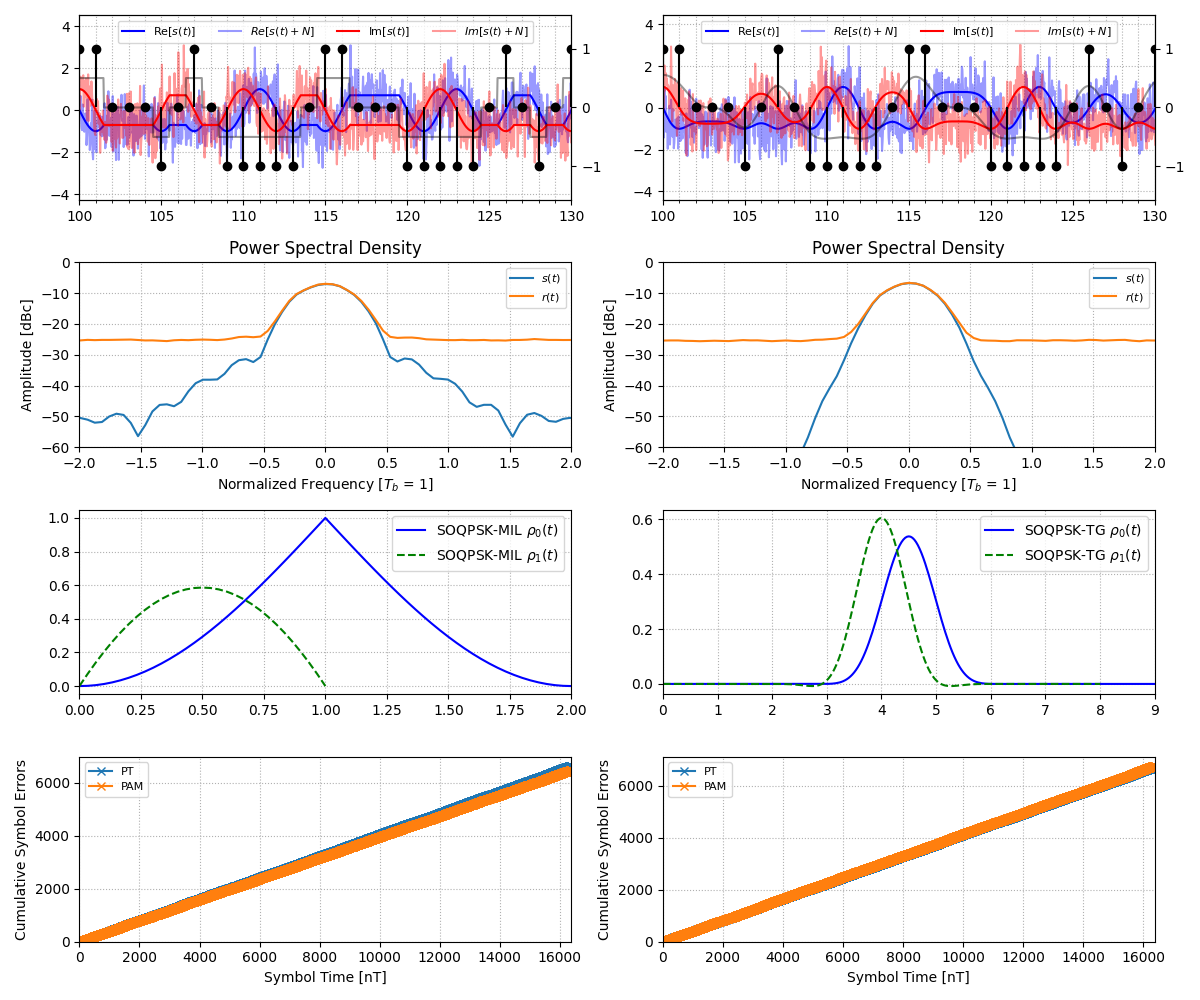
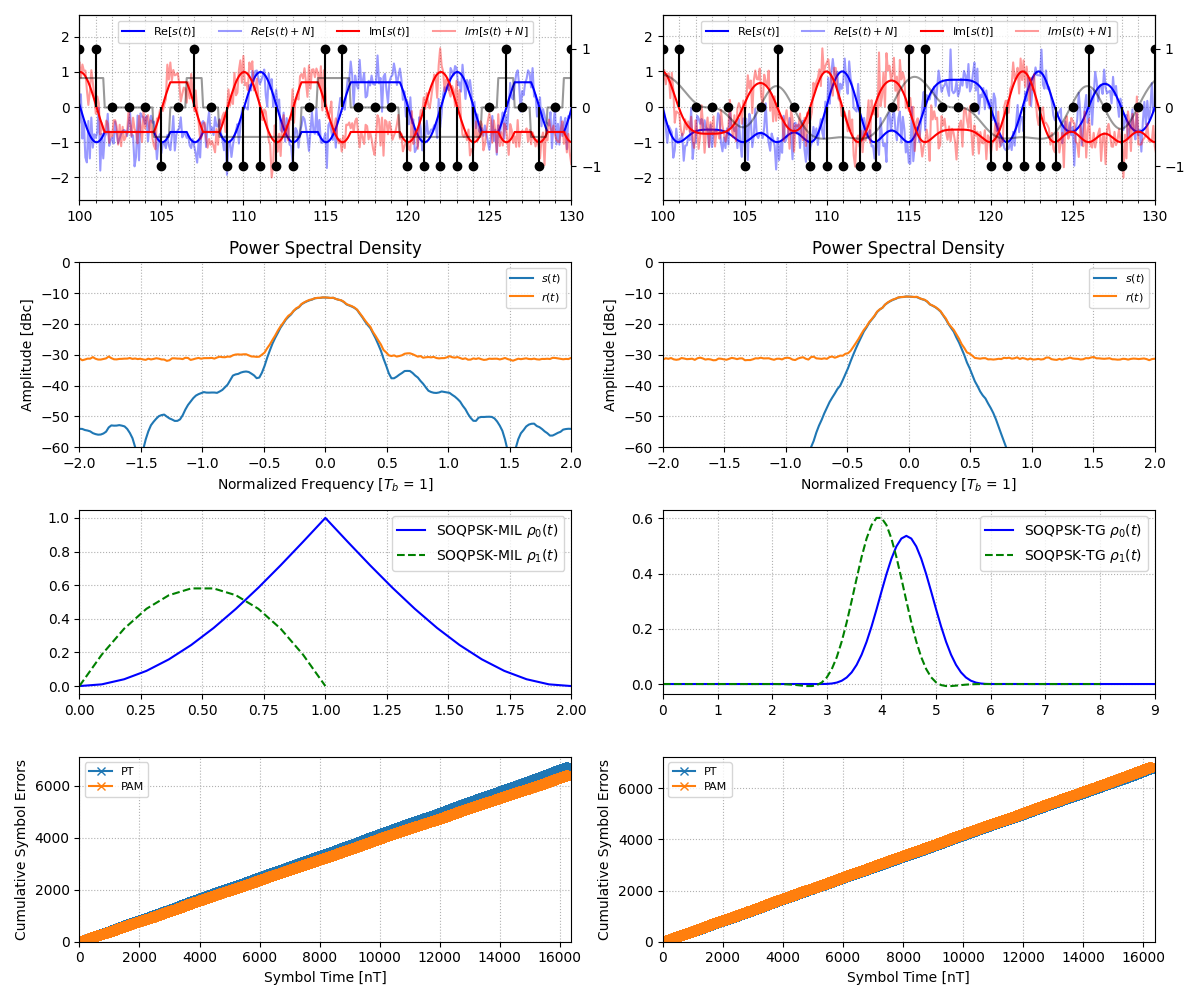
Remove black, isort lint option, work on pam decomp.

diff --git a/examples/soqpsk_detection.py b/examples/soqpsk_detection.py
@@ -19,7 +19,9 @@ from waveforms.cpm.trellis.model import (
     SOQPSKTrellis4x2,
 )
 from waveforms.glfsr import PNSequence
+from waveforms.noise import generate_complex_awgn
 from waveforms.viterbi.algorithm import SOQPSKTrellisDetector
+
 
 # Set seeds so iterations on implementation can be compared better
 rng = np.random.Generator(np.random.PCG64(seed=1))
@@ -36,10 +38,10 @@ _logger = logging.getLogger(__name__)
 if __name__ == "__main__":
     logging.basicConfig(level=logging.INFO)
     # Constants
-    sps = 30
+    sps = 10
     fft_size = 2**9
     pulse_pad = 0.5
-    sigma = np.sqrt(2) / 2
+    sigma = np.sqrt(2) / 4
     P = 4
 
     # Bits of information to transmit
@@ -82,18 +84,7 @@ if __name__ == "__main__":
             pulse_filter=pulse_filter,
             sps=sps,
         )
-        real_noise = rng.normal(0, sigma, modulated_signal.size)
-        imag_noise = rng.normal(0, sigma, modulated_signal.size)
-        noise = real_noise + 1j * imag_noise
-        # noise = (
-        #     rng.normal(
-        #         loc=0,
-        #         scale=sigma,
-        #         size=(modulated_signal.size, 2),
-        #     )
-        #     .view(np.complex128)
-        #     .flatten()
-        # )
+        noise = generate_complex_awgn(sigma, modulated_signal.size, rng)
         modulated_signal[:] *= np.exp(-j * np.pi / 4)
         freq_pulses = np.angle(modulated_signal[1:] * modulated_signal.conj()[:-1]) * sps / np.pi
 
@@ -157,7 +148,8 @@ if __name__ == "__main__":
         L = int(pulse_filter.size / sps)
         truncation = 1
         truncated_freq_pulse = pulse_filter[
-            int((L - truncation) * sps / 2) : int((L + truncation) * sps / 2) + 1
+            int((L - truncation) * sps / 2) :
+            int((L + truncation) * sps / 2) + 1
         ]
         truncated_freq_pulse = normalize_cpm_filter(sps=sps, g=truncated_freq_pulse)
         truncated_phase_pulse = np.cumsum(truncated_freq_pulse) / sps
@@ -169,7 +161,7 @@ if __name__ == "__main__":
         )
         mf_outputs_pt[1, :] = np.convolve(
             received_signal,
-            np.exp(-j * 2 * np.pi * mod_index * 0 * truncated_phase_pulse),
+            np.exp(-j * 2 * np.pi * mod_index * +0 * truncated_phase_pulse),
             mode="same",
         )
         mf_outputs_pt[2, :] = np.convolve(
@@ -180,6 +172,18 @@ if __name__ == "__main__":
 
         # PAM De-composition rho pulses/matched filters
         rho = rho_pulses(pulse_filter, mod_index, sps, k_max=2)
+
+        # if label == "MIL":
+        #     rho = [
+        #         np.concatenate([r[:int(r.size//2)], r[int(r.size//2)+1:]])
+        #         for r in rho
+        #     ]
+        # else:
+        #     rho = [
+        #         r[:-1]
+        #         for r in rho
+        #     ]
+
         d_max = max([rho_k.size for rho_k in rho])
 
         # Match filter outputs
@@ -229,9 +233,10 @@ if __name__ == "__main__":
             (error_idx,) = np.where(iter_va_output_symbols[:min_size] - aligned_symbols[:min_size])
             log_msg = (
                 f"SOQPSK-{label} {detector_type}: "
-                f"EbN0 (meas) = {ebn0:.2f} dB, "
-                f"EbN0 (calc) = {ebn0_calc:.2f} dB, "
+                f"Eb/N0 (meas) = {ebn0:.2f} dB, "
+                f"Eb/N0 (calc) = {ebn0_calc:.2f} dB, "
                 f"SER = {len(error_idx)/min_size:.3E}"
+                # f"BER = {len(error_idx)/min_size:.3E}"
             )
             _logger.info(log_msg)
             errors_ax.plot(
@@ -285,3 +290,4 @@ if __name__ == "__main__":
 
     fig_eye.tight_layout()
     fig_eye.savefig(Path(__file__).parent.parent / "images" / "soqpsk_pam.png")
+    plt.show()

diff --git a/waveforms/viz/eye.py b/waveforms/viz/eye.py
@@ -4,6 +4,7 @@ from typing import TYPE_CHECKING
 
 import matplotlib.pyplot as plt
 
+
 if TYPE_CHECKING:
     import numpy as np
     from matplotlib.axes import Axes
@@ -16,6 +17,7 @@ def eye_diagram(  # noqa: PLR0913
     signal: NDArray[np.complex64],
     sps: int = 8,
     modulo: int = 4,
+    t_offset: float = 0,
     color: str | None = None,
     axes: tuple[Axes, Axes] | None = None,
 ) -> Figure:
@@ -26,6 +28,7 @@ def eye_diagram(  # noqa: PLR0913
         signal: Array of modulated signal samples
         sps: Samples per symbol
         modulo: Eye diagram t_max
+        t_offset: Offset for t
         color: Color of the eye diagram
         axes: Axes if a new figure is not desired
 
@@ -37,14 +40,14 @@ def eye_diagram(  # noqa: PLR0913
     for i in range((time.size - 1) // (sps * modulo)):
         idx_start = i * sps * modulo
         real_ax.plot(
-            (time[idx_start : idx_start + sps * modulo + 1] - time[idx_start]),
+            (time[idx_start : idx_start + sps * modulo + 1] - time[idx_start]) + t_offset,
             signal.real[idx_start : idx_start + sps * modulo + 1],
             linewidth=0.3,
             color=color,
             alpha=0.7,
         )
         imag_ax.plot(
-            (time[idx_start : idx_start + sps * modulo + 1] - time[idx_start]),
+            (time[idx_start : idx_start + sps * modulo + 1] - time[idx_start]) + t_offset,
             signal.imag[idx_start : idx_start + sps * modulo + 1],
             linewidth=0.3,
             color=color,

diff --git a/waveforms/cpm/pamapprox.py b/waveforms/cpm/pamapprox.py
@@ -4,6 +4,7 @@ from typing import TYPE_CHECKING
 
 import numpy as np
 
+
 if TYPE_CHECKING:
     from numpy.typing import NDArray
 
@@ -25,6 +26,26 @@ def pam_unit_pulse(
     pih = mod_index * np.pi
     response[1 : phase_pulse.size + 1] = np.sin(2 * pih * phase_pulse) / np.sin(pih)
     response[phase_pulse.size + 1 :] = np.sin(pih - 2 * pih * phase_pulse) / np.sin(pih)
+    return response
+
+
+def pam_unit_pulse2(
+    phase_pulse: NDArray[np.float64],
+    mod_index: float,
+) -> NDArray[np.float64]:
+    """Generates a PAM unit pulse for a given phase pulse and modulation index.
+
+    Args:
+        phase_pulse (NDArray[np.float64]): Phase impulse response filter
+        mod_index (float): Modulation index
+
+    Returns:
+        NDArray[np.float64]: PAM unit pulse
+    """
+    response = np.zeros(phase_pulse.size * 2 - 1, dtype=np.float64)
+    pih = mod_index * np.pi
+    response[:phase_pulse.size] = np.sin(2 * pih * phase_pulse) / np.sin(pih)
+    response[phase_pulse.size:] = np.sin(pih - 2 * pih * phase_pulse[1:]) / np.sin(pih)
     return response
 
 
@@ -56,7 +77,7 @@ def rho_pulses(
     )
     b_matrix = np.linspace(0, length, num=length + 1, dtype=np.uint8)
     c_array = np.linspace(1, length + 1, num=length + 1)
-    u = pam_unit_pulse(np.cumsum(pulse_filter) / sps, mod_index)
+    u = pam_unit_pulse2(np.cumsum(pulse_filter) / sps, mod_index)
 
     # Calculate rho_0 and rho_1 - equation 3.21
     rho: list[NDArray[np.float64]] = []

diff --git a/waveforms/cpm/trellis/model.py b/waveforms/cpm/trellis/model.py
@@ -3,6 +3,7 @@ from __future__ import annotations
 import logging
 from dataclasses import dataclass
 
+
 _logger = logging.getLogger(__name__)
 
 
@@ -220,6 +221,34 @@ SOQPSKTrellis4x2 = Trellis(
             Branch(inp=1, out=+2, start=2, end=3),
             Branch(inp=0, out=-2, start=3, end=2),
             Branch(inp=1, out=0, start=3, end=3),
+        ],
+    ],
+)
+
+
+SOQPSKTrellis4x2DiffEncoded = Trellis(
+    branches=[
+        # Column 1 (n-even/I)
+        [
+            Branch(inp=0, out=0, start=0, end=0),
+            Branch(inp=1, out=+2, start=0, end=2),
+            Branch(inp=0, out=0, start=1, end=1),
+            Branch(inp=1, out=-2, start=1, end=3),
+            Branch(inp=1, out=-2, start=2, end=0),
+            Branch(inp=0, out=0, start=2, end=2),
+            Branch(inp=1, out=+2, start=3, end=1),
+            Branch(inp=0, out=0, start=3, end=3),
+        ],
+        # Column 2 (n-odd/Q)
+        [
+            Branch(inp=0, out=0, start=0, end=0),
+            Branch(inp=1, out=-2, start=0, end=1),
+            Branch(inp=1, out=+2, start=1, end=0),
+            Branch(inp=0, out=0, start=1, end=1),
+            Branch(inp=0, out=0, start=2, end=2),
+            Branch(inp=1, out=+2, start=2, end=3),
+            Branch(inp=1, out=-2, start=3, end=2),
+            Branch(inp=0, out=0, start=3, end=3),
         ],
     ],
 )

diff --git a/waveforms/cpm/soqpsk/pulse_filters.py b/waveforms/cpm/soqpsk/pulse_filters.py
@@ -1,6 +1,7 @@
 import numpy as np
 from numpy.typing import NDArray
 
+
 SOQPSK_NUMER = 1
 SOQPSK_DENOM = 2
 
@@ -30,7 +31,7 @@ def freq_pulse_soqpsk(
     t_norm = np.linspace(
         -tau_max,
         tau_max,
-        num=int(tau_max * sps * 2),
+        num=int(tau_max * sps * 2) + 1,
         dtype=np.float64,
         endpoint=True,
     )
@@ -45,7 +46,7 @@ def freq_pulse_soqpsk(
         w[idx] = (1 + np.cos(np.pi * (t_norm[idx] / 2 - t1) / t2)) / 2
         w[np.where(np.abs(t_norm) > tau_max)] = 0
 
-    a_scalar = sps / (np.cumsum(g * w)[-1] * 2)
+    a_scalar = sps / (np.sum(g * w) * 2)
     return a_scalar * g * w
 
 
@@ -98,7 +99,9 @@ def freq_pulse_soqpsk_mil(sps: int = 8) -> NDArray[np.float64]:
     Returns:
         NDArray[np.float64]: SOQPSK-MIL frequency pulse.
     """
-    return freq_pulse_soqpsk(b=0, t1=0.25, t2=0, rho=0, sps=sps)
+    g = np.ones(sps + 1, dtype=np.float64) / 2
+    g[0] = 0
+    return g
 
 
 def freq_pulse_soqpsk_tg(sps: int = 8) -> NDArray[np.float64]:

diff --git a/waveforms/viterbi/algorithm.py b/waveforms/viterbi/algorithm.py
@@ -7,19 +7,32 @@ import numpy as np
 from waveforms.cpm.trellis.model import (
     FiniteStateMachine,
     SOQPSKTrellis4x2,
+    SOQPSKTrellis4x2DiffEncoded,
 )
+
 
 if TYPE_CHECKING:
     from numpy.typing import NDArray
 
-j = complex(0, 1)
+j = 1j
 
 
 class SOQPSKTrellisDetector:
-    def __init__(self, length: int = 2) -> None:
+    def __init__(
+        self,
+        length: int = 2,
+        *,
+        differantial_encoding: bool = True,
+    ) -> None:
         self.i = 0
         self.length = length
-        self.fsm = FiniteStateMachine(trellis=SOQPSKTrellis4x2)
+        self.fsm = FiniteStateMachine(
+            trellis=(
+                SOQPSKTrellis4x2DiffEncoded
+                if differantial_encoding else
+                SOQPSKTrellis4x2
+            ),
+        )
         self.state_exp_term = [+j, -1, +1, -j]
         self.bi_history = np.zeros(
             (self.fsm.branches_per_column, length),

diff --git a/examples/soqpsk_example.py b/examples/soqpsk_example.py
@@ -17,9 +17,10 @@ from waveforms.cpm.soqpsk import (
 from waveforms.glfsr import PNSequence
 from waveforms.viz import eye_diagram
 
+
 rng = np.random.Generator(np.random.PCG64())
 
-PN_DEGREE = 14
+PN_DEGREE = 13
 DATA_GEN = PNSequence(PN_DEGREE)
 DATA_BUFFER = np.packbits(DATA_GEN.generate_sequence())
 j = complex(0, 1)
@@ -27,7 +28,7 @@ j = complex(0, 1)
 
 if __name__ == "__main__":
     # Constants
-    sps = 10
+    sps = 8
     fft_size = 2**10
     mod_index = 1 / 2
     pulse_pad = 0.5
@@ -70,6 +71,7 @@ if __name__ == "__main__":
             modulated_signal[: normalized_time.size // 4],
             sps=sps,
             modulo=4,
+            t_offset=0 if label == "MIL" else 1/sps/4,
             axes=(eye_real_ax, eye_imag_ax),
             color=color,
         )

diff --git a/waveforms/noise.py b/waveforms/noise.py
@@ -10,13 +10,19 @@ def generate_complex_awgn(
     size: int,
     rng: np.random.Generator = None,
 ) -> NDArray[np.complex128]:
+    """Generates complext AWGN.
+
+    Args:
+        sigma: Amplitude standard deviation.
+        size: Number of samples.
+        rng: Random number generator.
+
+    Returns:
+        NDArray[np.complex128]: Array of samples containing AWGN.
+    """
     rng = rng or DEFAULT_RNG
-    return (
-        rng.normal(
-            loc=0,
-            scale=sigma * np.sqrt(2) / 2,
-            size=(size, 2),
-        )
-        .view(np.complex128)
-        .flatten()
-    )
+    return rng.normal(
+        loc=0,
+        scale=sigma,
+        size=(size, 2),
+    ).view(np.complex128).flatten()

diff --git a/waveforms/cpm/helpers.py b/waveforms/cpm/helpers.py
@@ -15,5 +15,5 @@ def normalize_cpm_filter(
     Returns:
         NDArray[np.float64]: Original filter g multiplied by a nomalizing factyor
     """
-    a_scalar = sps / (np.cumsum(g)[-1] * 2)
+    a_scalar = sps / (np.sum(g) * 2)
     return a_scalar * g

diff --git a/waveforms/viz/psd.py b/waveforms/viz/psd.py
@@ -6,6 +6,7 @@ import matplotlib.pyplot as plt
 import matplotlib.ticker
 import numpy as np
 
+
 if TYPE_CHECKING:
     from matplotlib.axes import Axes
     from matplotlib.figure import Figure

diff --git a/waveforms/viz/tree.py b/waveforms/viz/tree.py
@@ -7,6 +7,7 @@ import matplotlib.pyplot as plt
 import matplotlib.ticker
 import numpy as np
 
+
 if TYPE_CHECKING:
     from matplotlib.axes import Axes
     from matplotlib.figure import Figure

diff --git a/waveforms/glfsr/pn.py b/waveforms/glfsr/pn.py
@@ -2,6 +2,7 @@ from __future__ import annotations
 
 from waveforms.glfsr.glfsr import GLFSR
 
+
 GALOIS_LFSR_POLYS: list[int] = [  # https://docs.amd.com/v/u/en-US/xapp052
     [0],
     [1],
